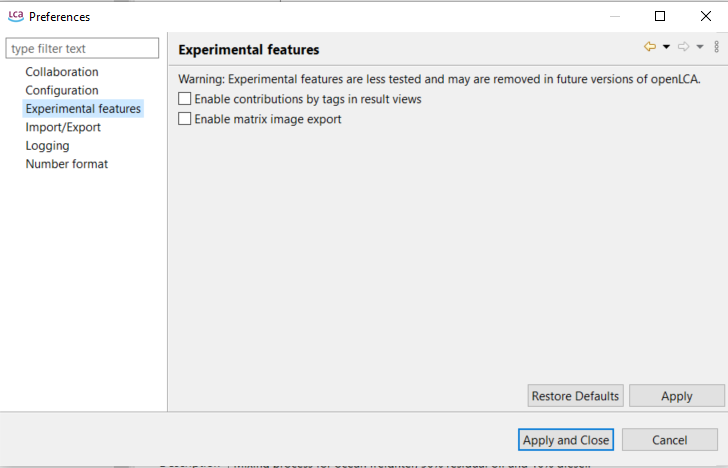
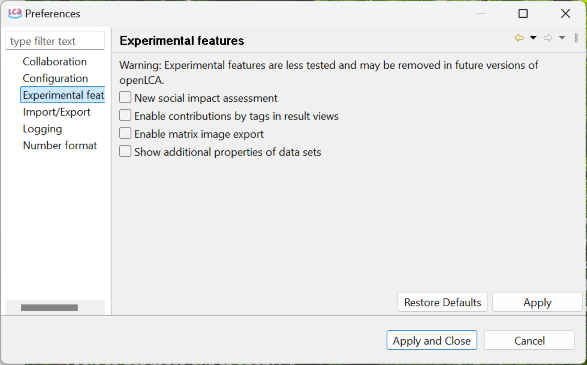
Small changes
Some figure and text was changed

diff --git a/src/collaboserver.md b/src/collaboserver.md
@@ -7,7 +7,7 @@
 With the general advancement of Life Cycle Assessment (LCA) and the spreading of Life Cycle Thinking (LCT), collaborative work on LCA studies becomes increasingly common e.g. within a company or team at the same location, within a company or team at different locations within multilateral projects (e.g. in research) on an international level and under participation of various entities such as companies, universities or consultancies as well as co-development of an LCA among executing contractors and clients. Moreover, it is becoming increasingly commonplace to use reference data for background processes, elementary flows, impact assessment methods, and other elements of existing LCA models. Often sharing of reference data for updating databases and distribution to users who are (also) distributed comes along with technical issues. In addition, quality assurance and review of LCA models through an external reviewer is of interest for anybody who wants to create a consistent LCA database.
 The LCA Collaboration Server, now in version 2.0, is a server application that complements openLCA (the LCA desktop application). It is available for free, and support is available on demand.
 
-If you wish to learn more about the collaboration server, please visit the collaboration server [manual](<https://manuals.openlca.org/lca-collaboration-server/>).
+If you wish to learn more about the collaboration server, please visit [the collaboration server manual](<https://manuals.openlca.org/lca-collaboration-server/>).
 
 ![](./media/lca_collaboserver.png)
 

diff --git a/src/running_olca_for_first_time.md b/src/running_olca_for_first_time.md
@@ -51,7 +51,7 @@ The following options are available under **File**:
 
 	**Dark mode**: Our dark mode seamlessly follows the mode set for your entire system. To enable the dark mode in openLCA you need to select it on your operating system.
 		
-    - **Experimental features:** These features are still in development, but you can already access them by checking this box. We welcome any feedback to further refine them.
+    - **Experimental features:** These features are still in development, but you can already access them by checking this box. We welcome any feedback to further refine them. Here you can activate the novel social impact assessment feature.
 		
 		![](./media/settings_experimental_features.png)  
 		_Preferences Experimental Features_
@@ -152,7 +152,7 @@ _Options under **Show views, Other**_
 	To find out more details on scripting in openLCA, see "[Scripting in openLCA](./scripting.md)" chapter.
 
 - **Bulk-replace:** It is a tool that allows the replacement of a flow or product
-    provider with another flow or provider.
+    provider with another flow or provider. To find out more details on bulk-replace see "[Using mapping files in openLCA](../database/mapping_validation.md)" chapter.
 	
 - **Flow mapping (experimental):** Still under development but already available for you!
 

diff --git a/src/epds/life_cycle_models.md b/src/epds/life_cycle_models.md
@@ -25,7 +25,7 @@ target flow to the results element.
 
 4.	After all connections are established and the target amounts are set, it is important to save all changes prior performing the impact assessment. Then, the results can be analyzed as usual.
 
-<br>_**Notes:**_: 
+<br>_**Notes:**_ 
 
 **For users using the Ecoinvent v3.9 EN15804+A2 add-on database or previous versions:** EPDs imported via ILCD formats cannot be integrated into the results of the EPD when utilized as part of a product system that is created on openLCA. Therefore, you must [manually add the EPD results](./adding_results_3rd_sources.md#adding-epds-manually) OR map the impact categories of the EPD results by creating a new process and adding suitable elementary flows representing each impact category. 
 
